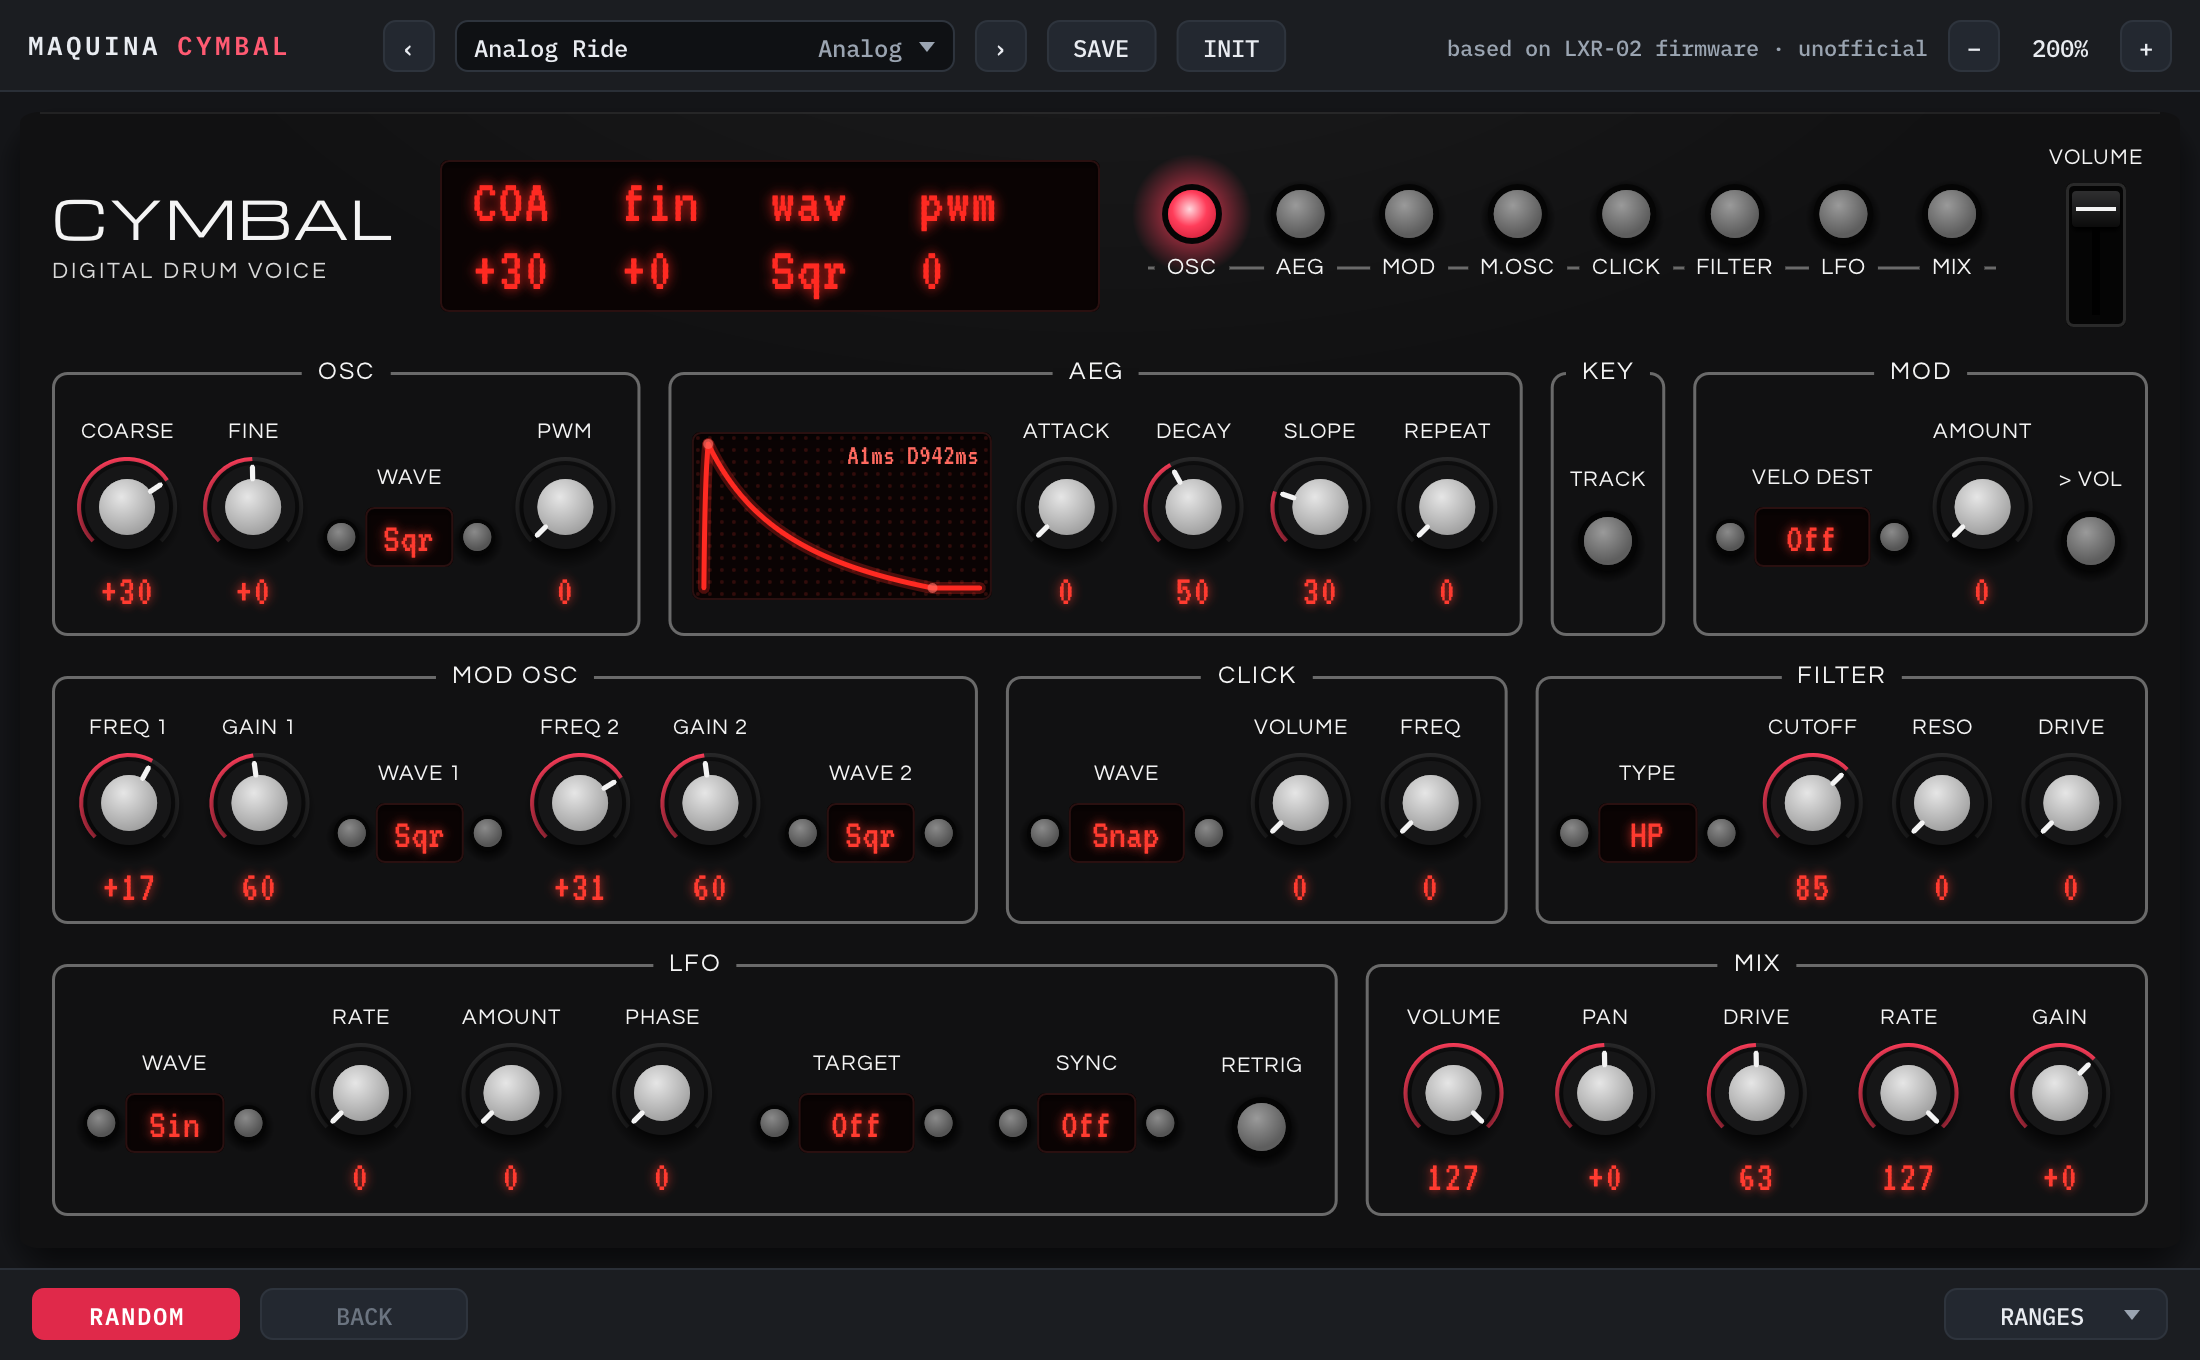
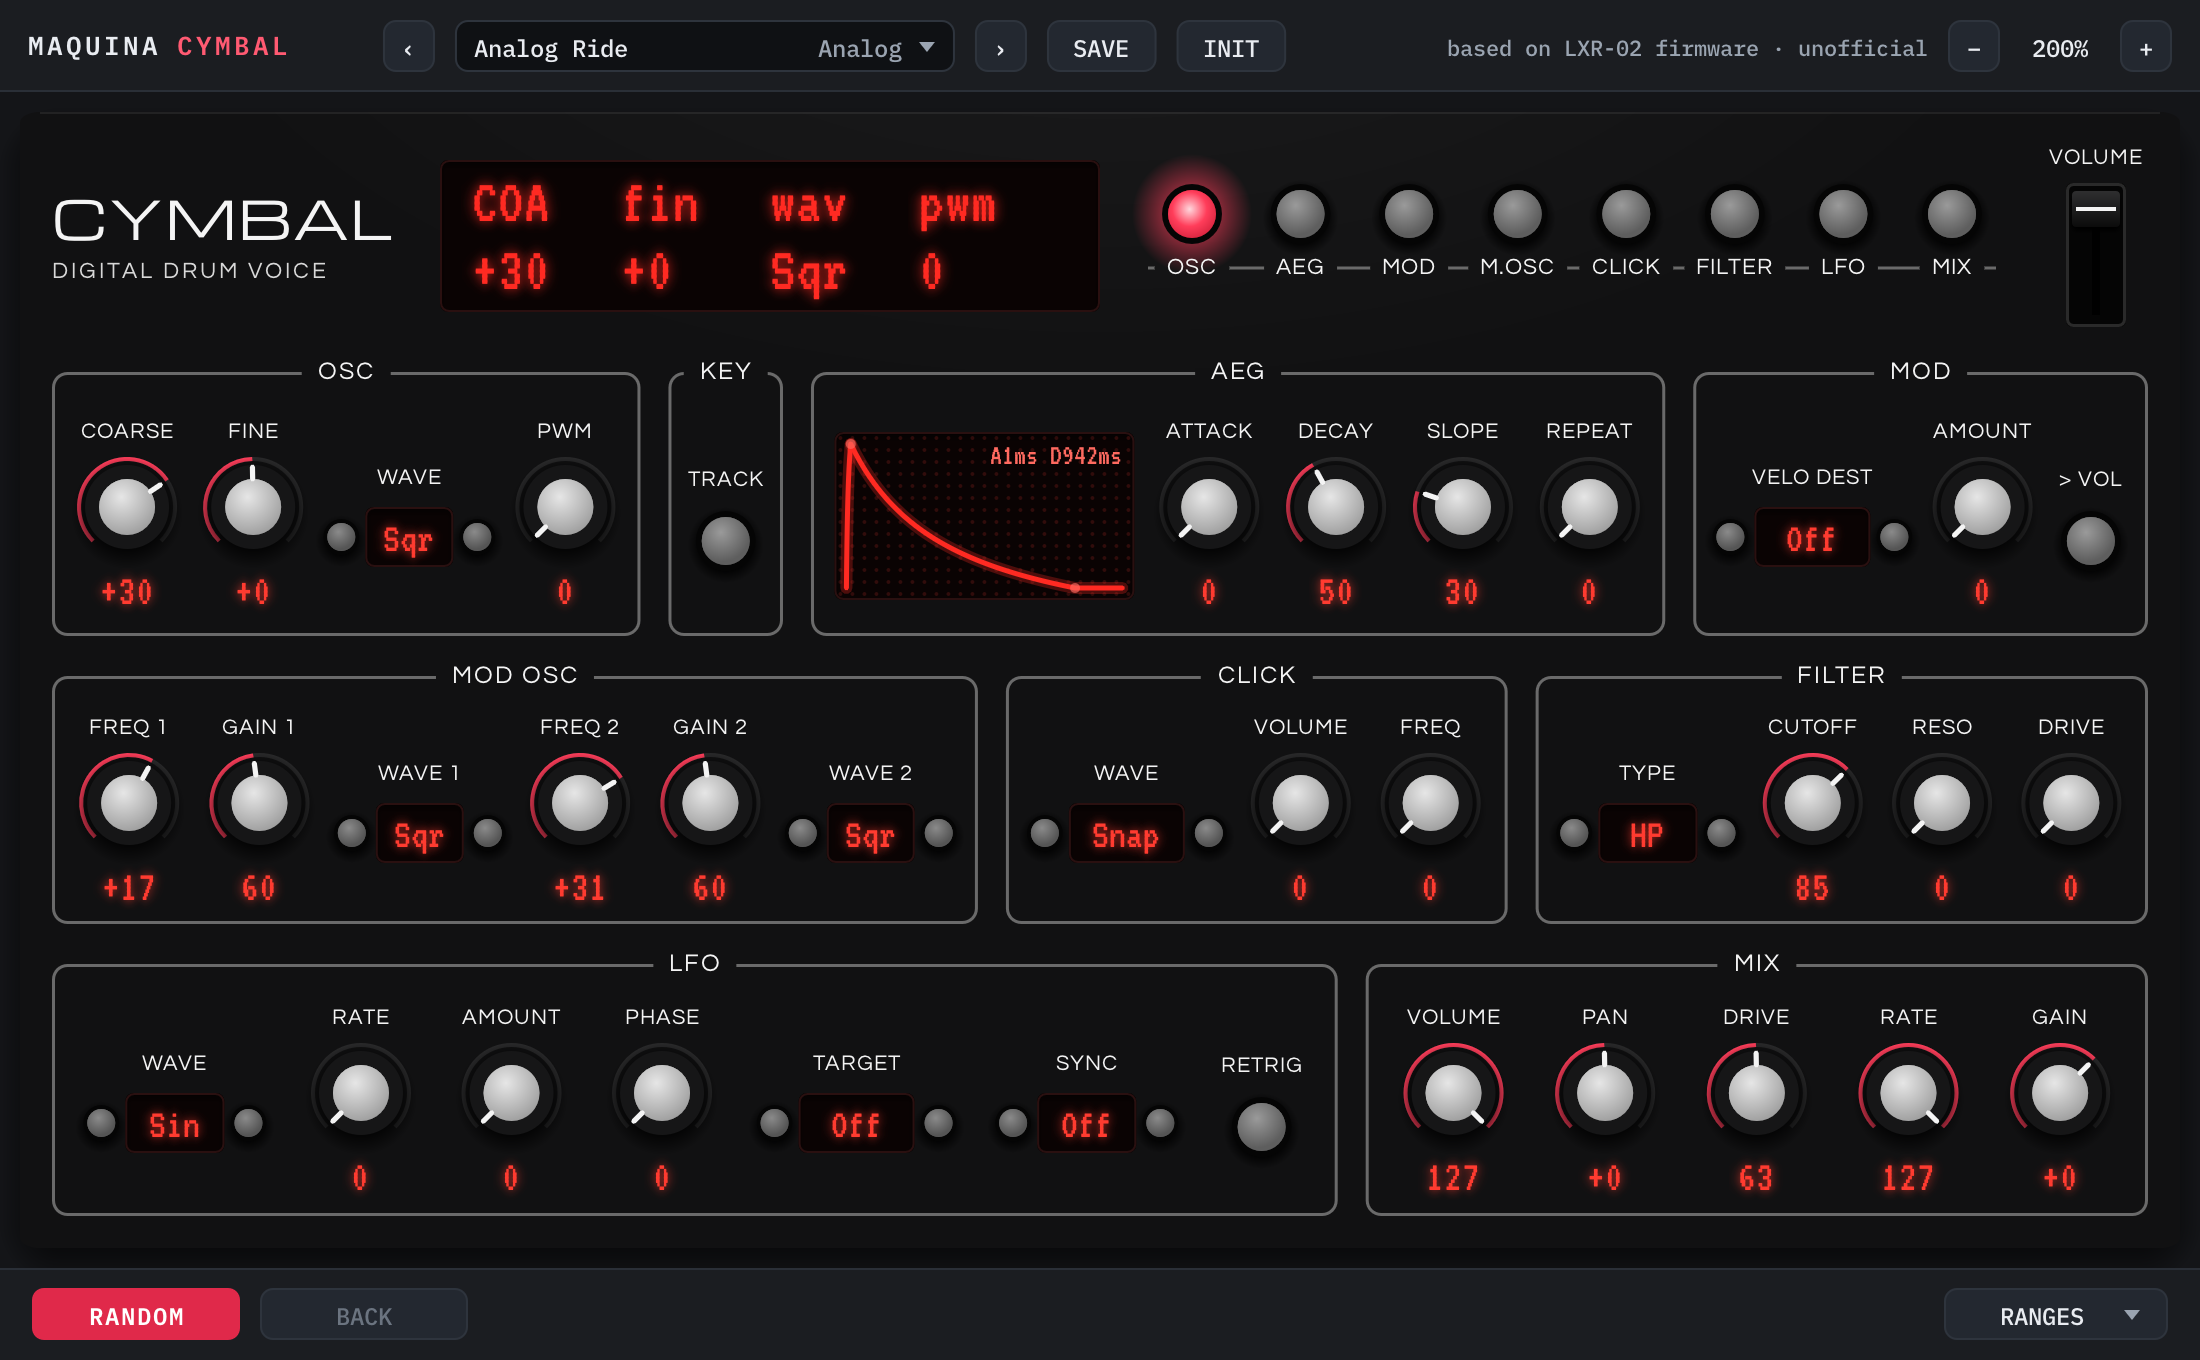
editor: LXR Key Track next to OSC on all five drum voices
Key Track transposes the oscillators only (osc_setBaseNote), so its switch
now sits in a KEY box right after OSC on Kick, Tom, Snare, Cymbal and
HiHat. On Kick and Tom it was in the FILTER box, which read as filter key
tracking; there AEG and FM swap rows so the top row fits. README
screenshots of the five LXR voices updated.

diff --git a/common/ui/Layouts.cpp b/common/ui/Layouts.cpp
@@ -437,19 +437,19 @@ constexpr LxrKind kKn = LxrKind::Knob, kSel = LxrKind::Sel, kTg = LxrKind::Toggl
 
 // Kick, Tom (as tom.html; the Kick mockup is the same rows)
 const LxrBoxSpec kLxrDrumBoxes[] = {
-    { 0, "OSC", 3, { LXR_OSC } }, { 0, "AEG", 4, { LXR_AEG } }, { 0, "PITCH EG", 4, { LXR_PITCH } },
+    { 0, "OSC", 3, { LXR_OSC } }, { 0, "KEY", 0.8f, { { kTg, "note_pitch", "Track" } } }, { 0, "PITCH EG", 4, { LXR_PITCH } },
+    { 0, "FM", 3, { { kKn, "fm_amount", "Amount" }, { kKn, "fm_freq", "Freq" }, { LxrKind::Stack, "fm_wave", nullptr, "fm_mode" } } },
     { 1, "CLICK", 2.4f, { LXR_CLICK } }, { 1, "LFO", 5, { LXR_LFO } }, { 1, "MOD", 2.3f, { LXR_MOD } },
-    { 2, "FM", 3.4f, { { kKn, "fm_amount", "Amount" }, { kKn, "fm_freq", "Freq" }, { LxrKind::Stack, "fm_wave", nullptr, "fm_mode" } } },
-    { 2, "FILTER", 3.2f, { LXR_FILTER, { kTg, "note_pitch", "Key\ntrk" } } }, { 2, "MIX", 3.1f, { LXR_MIX } },
+    { 2, "AEG", 4.4f, { LXR_AEG } }, { 2, "FILTER", 3, { LXR_FILTER } }, { 2, "MIX", 3.3f, { LXR_MIX } },
 };
 const LxrBoxSpec kLxrSnareBoxes[] = {
-    { 0, "OSC", 3, { LXR_OSC } }, { 0, "NOISE", 1.6f, { { kKn, "noise_freq", "Freq" }, { kKn, "noise_mix", "Mix" } } },
-    { 0, "PITCH EG", 4, { LXR_PITCH } }, { 0, "KEY", 0.8f, { { kTg, "note_pitch", "Track" } } },
+    { 0, "OSC", 3, { LXR_OSC } }, { 0, "KEY", 0.8f, { { kTg, "note_pitch", "Track" } } },
+    { 0, "NOISE", 1.6f, { { kKn, "noise_freq", "Freq" }, { kKn, "noise_mix", "Mix" } } }, { 0, "PITCH EG", 4, { LXR_PITCH } },
     { 1, "CLICK", 2.4f, { LXR_CLICK } }, { 1, "LFO", 5, { LXR_LFO } }, { 1, "MOD", 2.3f, { LXR_MOD } },
     { 2, "AEG", 4.4f, { LXR_AEG } }, { 2, "FILTER", 3, { LXR_FILTER } }, { 2, "MIX", 3.3f, { LXR_MIX } },
 };
 const LxrBoxSpec kLxrMetalBoxes[] = { // Cymbal, HiHat
-    { 0, "OSC", 3, { LXR_OSC } }, { 0, "AEG", 4.2f, { LXR_AEG } }, { 0, "KEY", 0.8f, { { kTg, "note_pitch", "Track" } } },
+    { 0, "OSC", 3, { LXR_OSC } }, { 0, "KEY", 0.8f, { { kTg, "note_pitch", "Track" } } }, { 0, "AEG", 4.2f, { LXR_AEG } },
     { 0, "MOD", 2.3f, { LXR_MOD } },
     { 1, "MOD OSC", 5, { { kKn, "mod1_freq", "Freq 1" }, { kKn, "mod1_gain", "Gain 1" }, { kSel, "mod1_wave", "Wave 1" },
                          { kKn, "mod2_freq", "Freq 2" }, { kKn, "mod2_gain", "Gain 2" }, { kSel, "mod2_wave", "Wave 2" } } },

diff --git a/docs/ui-redesign.md b/docs/ui-redesign.md
@@ -130,8 +130,8 @@ bright, the others dim; group brackets are orange. Window 1240 × 800.
 | MOD: Velo Dest, Amount, > Vol | `velo_dest` `velo_amount` `velo_volume` |
 | FM (Kick, Tom): Amount, Freq, Wave, Mode | `fm_amount` `fm_freq` `fm_wave` `fm_mode` |
 | MOD OSC (Cymbal, HiHat): Freq / Gain / Wave 1 and 2 | `mod1_*` `mod2_*` |
-| FILTER: Type, Cutoff, Reso, Drive (+ Key Trk on Kick) | `filter_type` `filter_freq` `filter_reso` `filter_drive` (`note_pitch`) |
-| KEY (Snare, Cymbal, HiHat): Track | `note_pitch` |
+| FILTER: Type, Cutoff, Reso, Drive | `filter_type` `filter_freq` `filter_reso` `filter_drive` |
+| KEY (all five, right after OSC): Track | `note_pitch` |
 | MIX: Volume, Pan, Drive, Rate, Gain | `volume` `pan` `drive` `decimation` `gain` |
 | Top strip: display, page buttons | *(UI)* the page shown = last-touched section, buttons pick it |
 | Top strip: VOLUME fader | see question 5 |
@@ -140,9 +140,11 @@ Mismatch: the board draws LFO **SYNC as a round toggle**, but `lfo_sync` has 12 
 (Off, 4/1 … 1/32). Plan: a small red display window with step buttons like TARGET (it fits in
 the LFO box by narrowing TARGET); RETRIG stays a toggle.
 
-Row tables: Kick / Tom use OSC · AEG · PITCH EG / CLICK · LFO · MOD / FM · FILTER (+KEY) ·
-MIX; Snare and Cymbal / HiHat as in the guide. These replace `kDrumRows` / `kSnareRows` /
-`kMetalRows` (only the order changes).
+Row tables: Kick / Tom use OSC · KEY · PITCH EG · FM / CLICK · LFO · MOD / AEG · FILTER · MIX
+(AEG and FM swap rows so the top row fits); Snare and Cymbal / HiHat as in the guide, but with
+KEY moved right after OSC. Key Track transposes the oscillators only (`osc_setBaseNote`), so on
+all five voices it sits next to OSC (the guide had it in Kick's FILTER box, which read as filter
+key tracking). These replace `kDrumRows` / `kSnareRows` / `kMetalRows` (only the order changes).
 
 As built (step 4, `makeLxr` in `common/ui/Layouts.cpp`):
 
